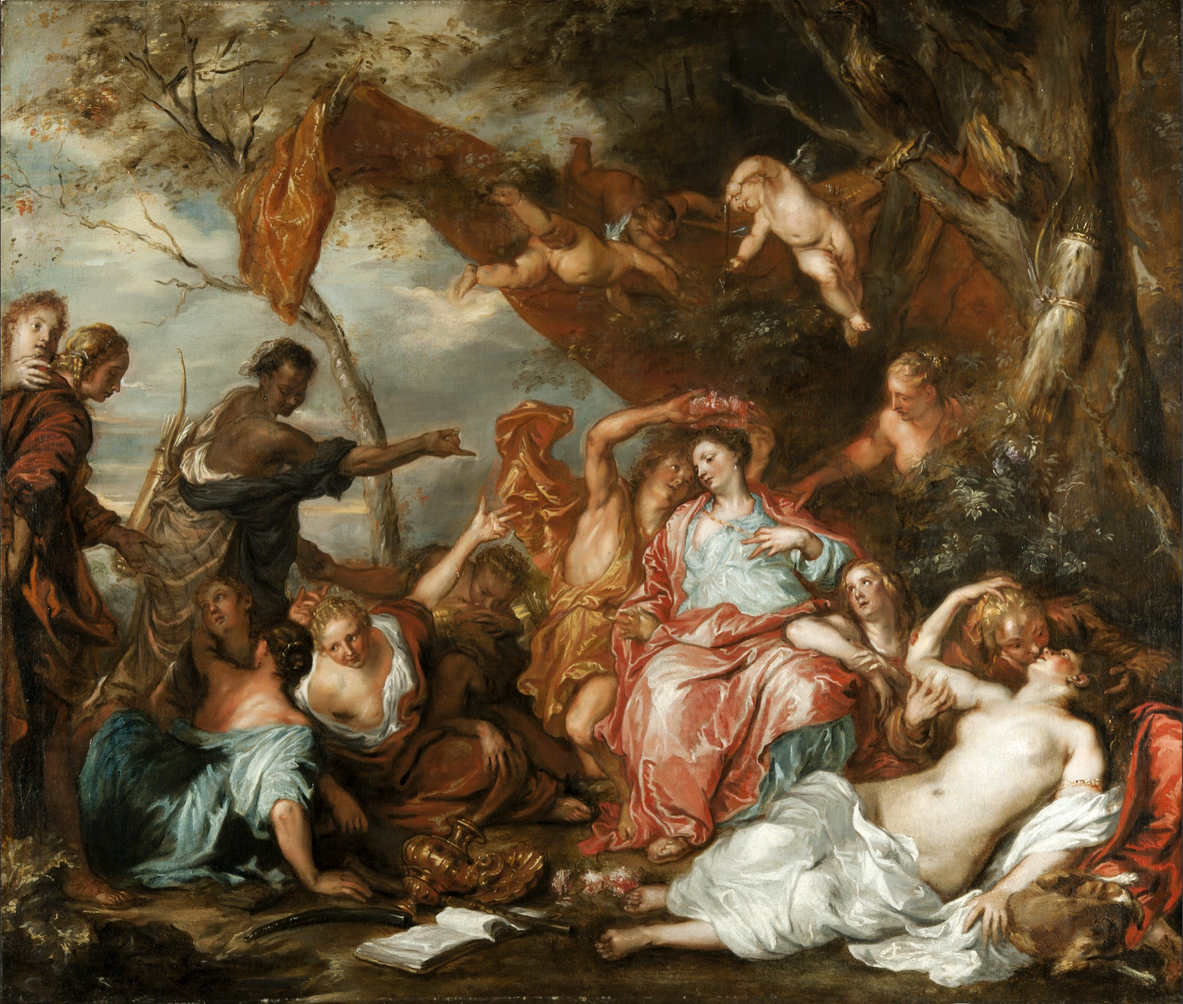
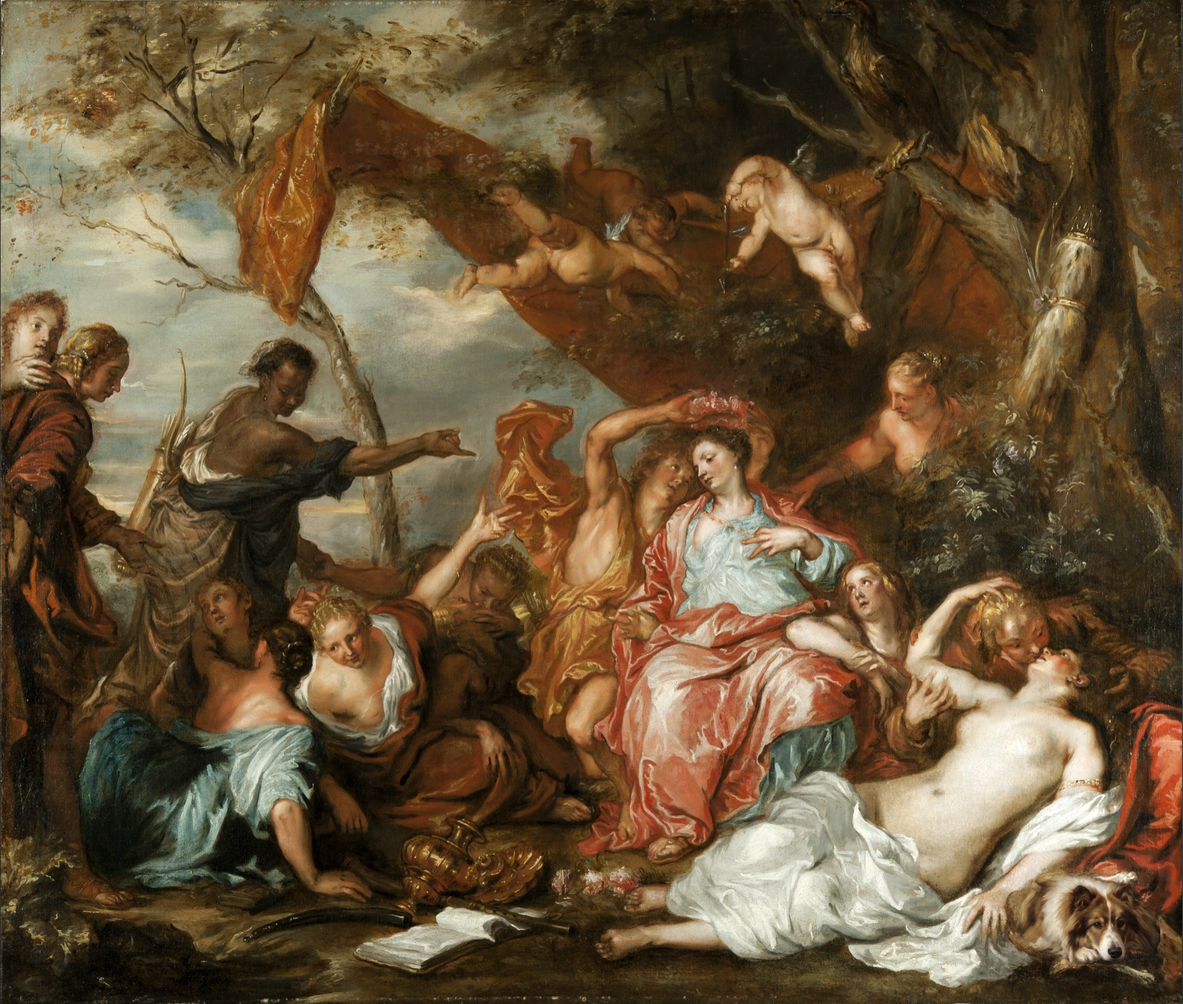
The three who hid: Amelia in Primavera, Mishka in Amaryllis and Mirtillo, Trogdor on Lorenzetti's road
Three of the family painted into three of the pictures in each painter's manner, unmarked. From a picture's
own close-up stop the pointer becomes a magnifying glass over the animal, and a click names the find in the
panel. The tally counts them as a bonus line, "Hidden bonuses", three stars that fill gold. Mishka's patch
is the owner's own Photoshop work.

Changed region(s): [[0.8125, 0.8384, 1.0, 0.9937]]

diff --git a/Wedding website planning/gallery3d.js b/Wedding website planning/gallery3d.js
@@ -865,6 +865,28 @@ function column(x, z) {
 [-1, 1].forEach((sx) => { column(sx * (P.corrX - 0.32), P.wingFarZ + 0.55); });
 
 // ---- artwork
+// ---- three of the family, painted into three of the pictures in each painter's own manner (the owner's habit: she
+// paints her pets into prints). Nothing marks them; a click on the animal itself, from the picture's own stop, names the
+// find in the panel and counts it in the tally. `at` is the animal's box on the picture, as fractions from its top-left.
+const HIDDEN = {
+  'assets/primavera.jpg': { at: [0.073, 0.82, 0.165, 0.975], stop: 'w2close', accent: '#D19A6E', eyebrow: 'Wing II \u00b7 found', title: 'Amelia, in the orchard',
+    body: 'Botticelli did not paint a dog at Mercury\u2019s feet. Kelly regularly paints her pets into other people\u2019s pictures, and Amelia saw no reason to be left out of this iconic party. In fact, she thinks she is the guest of honor.', meta: 'One of three. The other two are elsewhere in the building.' },
+  'assets/w1-amaryllis-and-mirtillo.jpg': { at: [0.84, 0.86, 0.99, 0.985], stop: 'w1amaryllis', accent: '#93AEA2', eyebrow: 'Wing I \u00b7 found', title: 'Mishka, with the hound',
+    body: 'A hound in the corner, resting against Amaryllis\u2019s hand. Mishka, the definition of a Velcro dog, is not asleep. He is keeping an eye on the party and refuses to be left out.', meta: 'One of three. The other two are elsewhere in the building.' },
+  'assets/det-good-government-countryside.jpg': { at: [0.66, 0.9, 0.725, 0.985], stop: 'detFrontL', accent: '#A79C85', eyebrow: 'Exhibit details \u00b7 found', title: 'Trogdor, on the road to Siena',
+    body: 'On Lorenzetti\u2019s white road, among the mule trains, a sulcata tortoise is making for the villa at his own pace. Trogdor set off some time ago. He will get there\u2026 eventually.', meta: 'One of three. The other two are elsewhere in the building.' }
+};
+const FOUND = new Set((() => { try { return JSON.parse(localStorage.getItem('ka-found') || '[]'); } catch (e) { return []; } })());
+function markHidden(mesh, src) { if (HIDDEN[src]) mesh.userData.hidden = src; }
+// a click on a picture that hides one: is it on the animal? (uv from the raycast; the picture's v runs bottom-up)
+function hiddenHit(hit) {
+  const src = hit.object.userData.hidden;
+  if (!src || !hit.uv) return null;
+  const h = HIDDEN[src], u = hit.uv.x, v = 1 - hit.uv.y, pad = 0.03;
+  return u >= h.at[0] - pad && u <= h.at[2] + pad && v >= h.at[1] - pad && v <= h.at[3] + pad ? h : null;
+}
+const atHiddenStop = (h) => STATIONS[idx].id === h.stop || (h.closeIdx !== undefined && idx === h.closeIdx);   // the picture's own close-up, or the stop named
+
 function painting(src, aspect, w, x, z, rotY, station, closer, y = 1.95) {
   const h = w / aspect;
   const grp = new THREE.Group();
@@ -877,6 +899,7 @@ function painting(src, aspect, w, x, z, rotY, station, closer, y = 1.95) {
   );
   canvasMesh.name = 'canvas';
   canvasMesh.position.z = -0.045 + frame.userData.pictureZ;
+  markHidden(canvasMesh, src);
   grp.add(canvasMesh);
   grp.position.set(x, y, z);
   grp.rotation.y = rotY;
@@ -1087,6 +1110,7 @@ function framedPicture(p, i) {
     picGeo.setAttribute('uv', new THREE.Float32BufferAttribute(uv, 2));
   }
   const pic = new THREE.Mesh(picGeo, new THREE.MeshStandardMaterial({ map: p.src ? tex(p.src) : studyTexture(i, p.w / p.h, p.blank), roughness: 0.62 }));
+  if (p.src) markHidden(pic, p.src);
   pic.position.z = -0.07 + frame.userData.pictureZ;
   if (p.src) {
     const t = pic.material.map;
@@ -1115,6 +1139,7 @@ DETAIL_PICTURES.forEach((p, i) => {
       accent: '#C9A667', eyebrow: 'Exhibit details · ' + SECTION_LABEL[p.sec], title: p.note[0], body: p.note[1], meta: p.note[2] });
     ST[id] = STATIONS.length - 1;
     grp.userData.closer = ST[id];
+    if (HIDDEN[p.src]) HIDDEN[p.src].closeIdx = ST[id];              // a hidden pet in this picture is found from this close-up
   }
 });
 
@@ -2972,10 +2997,20 @@ function tallyTotal() { return new Set(STATIONS.filter((s) => s.id !== 'atrium')
 function paintTally() {
   const t = el('tally'); if (!t) return;
   const total = tallyTotal(), seen = [...SEEN].filter((x) => STATIONS.some((s) => s.title === x)).length;
-  t.textContent = seen >= total ? 'Collection \u00b7 every work seen' : 'Collection \u00b7 ' + seen + ' of ' + total;
+  const found = [...FOUND].filter((x) => HIDDEN[x]).length, n = Object.keys(HIDDEN).length;
+  // the three finds are a bonus under the count: hollow stars that fill in gold
+  const stars = Array.from({ length: n }, (_, i) => '<span style="color:' + (i < found ? '#E8C07A' : 'rgba(242,223,168,.45)') + '">' + (i < found ? '\u2605' : '\u2606') + '</span>').join('');
+  t.innerHTML = (seen >= total ? 'Collection \u00b7 every work seen' : 'Collection \u00b7 ' + seen + ' of ' + total) + '<span style="display:block;font-size:11px;letter-spacing:.14em;margin-top:2px">Hidden bonuses ' + stars + '</span>';
+}
+function foundHidden(h) {
+  const src = Object.keys(HIDDEN).find((k) => HIDDEN[k] === h);
+  if (!FOUND.has(src)) { FOUND.add(src); try { localStorage.setItem('ka-found', JSON.stringify([...FOUND])); } catch (e) { /* the find lasts the visit */ } }
+  paintTally();
+  const n = [...FOUND].filter((x) => HIDDEN[x]).length;
+  paintLabel({ ...h, id: 'hidden', meta: n >= 3 ? 'All three found.' : n === 2 ? 'Two of three found. One more is hiding.' : h.meta });
 }
 function noteSeen(st) {
-  if (st.id === 'atrium' || SEEN.has(st.title)) return;
+  if (st.id === 'atrium' || st.id === 'hidden' || SEEN.has(st.title)) return;
   SEEN.add(st.title);
   try { localStorage.setItem('ka-seen', JSON.stringify([...SEEN])); } catch (e) { /* private mode: the tally lasts the visit */ }
   paintTally();
@@ -3198,6 +3233,8 @@ function onHeldItem(e) {
 }
 canvas.addEventListener('click', (e) => {
   const p = probe(e.clientX, e.clientY);
+  // a hidden pet, clicked from its picture's own stop: name the find (a click elsewhere on the picture does what it always did)
+  if (p.surface) { const h = hiddenHit(p.surface); if (h && atHiddenStop(h)) { foundHidden(h); return; } }
   // holding something and clicking away from it: put it down (a click on something else walks there, which puts it down too)
   if ((volHeld() || invHeld()) && !onHeldItem(e) && !p.room && p.station === undefined && !p.cardKey && !p.note) { goTo(ST.detTable); return; }
   if (p.room) goTo(ROOM_ENTRY[p.room]);
@@ -3239,7 +3276,9 @@ function updatePointer() {
   if (pointer.inside && (pointer.moved || (!busy && pointer.recheck))) {   // not on every frame of a walk: the ray test is the dearest thing in the frame
     pointer.moved = false;
     const p = probe(pointer.x, pointer.y);
+    const onPet = p.surface && hiddenHit(p.surface) && atHiddenStop(hiddenHit(p.surface));   // the hidden pets: the pointer lights up over them only from their picture's stop
     const cur = volHeld() && p.surface && isVolvelle(p.surface.object) ? (volDrag ? 'grabbing' : 'grab')
+      : onPet ? 'var(--cur-find)'
       : p.room || p.station !== undefined || p.note || p.cardKey || (invHeld() && p.surface && p.surface.object.userData.invite) ? 'var(--cur-on)'
       : LOOK.turning ? (LOOK.turning > 0 ? 'e-resize' : 'w-resize') : '';
     if (canvas.style.cursor !== cur) canvas.style.cursor = cur;        // only when it changes: re-setting a cursor makes some browsers flash the default arrow

diff --git a/Wedding website planning/The Gallery 3D.html b/Wedding website planning/The Gallery 3D.html
@@ -13,6 +13,7 @@ if (!/[?&]desktop/.test(location.search) && /iPhone|iPod|Android.*Mobile|Windows
 </script>
 <link rel="preload" as="image" href="assets/cursor.png" />
 <link rel="preload" as="image" href="assets/cursor-on.png" />
+<link rel="preload" as="image" href="assets/cursor-find.png" />
 <link href="https://fonts.googleapis.com/css2?family=Cormorant+Garamond:ital,wght@0,300;0,400;0,500;1,300;1,500;1,600&family=EB+Garamond:ital,wght@0,400;0,500;1,400&display=swap" rel="stylesheet" />
 <script type="importmap">
 {
@@ -47,7 +48,7 @@ if (!/[?&]desktop/.test(location.search) && /iPhone|iPod|Android.*Mobile|Windows
   #cardBody p { margin: 0 0 10px; font-size: 17px; line-height: 1.65; color: #4a4137; }
   /* one themed cursor everywhere: Cupid's arrow. Over anything you can click, the same arrow lights up
      (rose heart, gold glow). The hot spot is the tip of the heart. */
-  :root { --cur: url("assets/cursor.png") 3 3, auto; --cur-on: url("assets/cursor-on.png") 3 3, pointer; }   /* pre-rendered PNGs: an SVG cursor is re-rasterised on every change, which flashes the default arrow */
+  :root { --cur: url("assets/cursor.png") 3 3, auto; --cur-on: url("assets/cursor-on.png") 3 3, pointer; --cur-find: url("assets/cursor-find.png") 11 11, zoom-in; }   /* pre-rendered PNGs: an SVG cursor is re-rasterised on every change, which flashes the default arrow */
   html, body, #view { cursor: var(--cur); }
   button { cursor: var(--cur-on) !important; }
   .cbtn { width: 28px; height: 28px; border-radius: 50%; background: rgba(26,18,8,.55); backdrop-filter: blur(2px); border: 1px solid rgba(232,192,122,.7); color: #F2E6C9; display: grid; place-items: center; padding: 0; transition: opacity 400ms ease, background 200ms ease; }

diff --git a/Wedding website planning/HANDOFF.md b/Wedding website planning/HANDOFF.md
@@ -118,6 +118,20 @@ internet connection is needed.
   (`assets/det-ceiling-tiepolo.jpg`, the Met, turned to lie along the room); a second frame style,
   ebonised with a gilt slip (`ornateFrame(w, h, 'plain')`, `PLAIN_PROFILE`; `frame: 'plain'` on five of
   the salon hang's smaller pictures); a spot on each of the six large statues.
+- **The three who hid** (25 Sept 2026): Kelly paints her pets into prints, so three of the family are painted
+  into three of the pictures in each painter's manner and left unmarked: Amelia (white spitz) in the flowers at
+  Mercury's feet in *Primavera*; Mishka (Nenets herding laika), head and shoulders, lying with Van Dyck's own hound in the bottom-right
+  corner of *Amaryllis and Mirtillo* (Wing I); Trogdor (sulcata tortoise) on the road among the mule trains in
+  Lorenzetti's *Good Government* (Logistics wall). Amelia was inpainted into the panel (Magnific, Nano Banana) with her photos as references; Mishka was generated
+  in Van Dyck's manner, placed, and then finished by the owner herself in Photoshop (her patch is the final word:
+  do not regenerate or move him); Trogdor was generated with the fresco as style reference, cut out and composited. The
+  results are pasted into the picture files (`assets/primavera.jpg`,
+  `w1-amaryllis-and-mirtillo.jpg`, `det-good-government-countryside.jpg`; the untouched originals are not in the repo —
+  re-download from the sources in the Credits panel if ever needed). `HIDDEN` in gallery3d.js holds each one's box
+  on its picture and its write-up; `markHidden` tags the canvas meshes; a click on the animal from the picture's own
+  close-up stop (`hiddenHit`/`atHiddenStop`) calls `foundHidden`, which names it in the panel and counts it in the
+  tally as a bonus line, "Hidden bonus features" with three stars that fill gold (localStorage `ka-found`; the works
+  count stays 54). Over a hidden pet, from its stop, the pointer becomes a magnifying glass (`assets/cursor-find.png`, `--cur-find`).
 - Gilt numerals **I** and **II** above the wing arches (solid bars, not text).
 - Architectural dressing: cornices, atrium pilasters, arch surrounds with keystones, bosses, the
   inside face of the entrance doors on the atrium's back wall.
